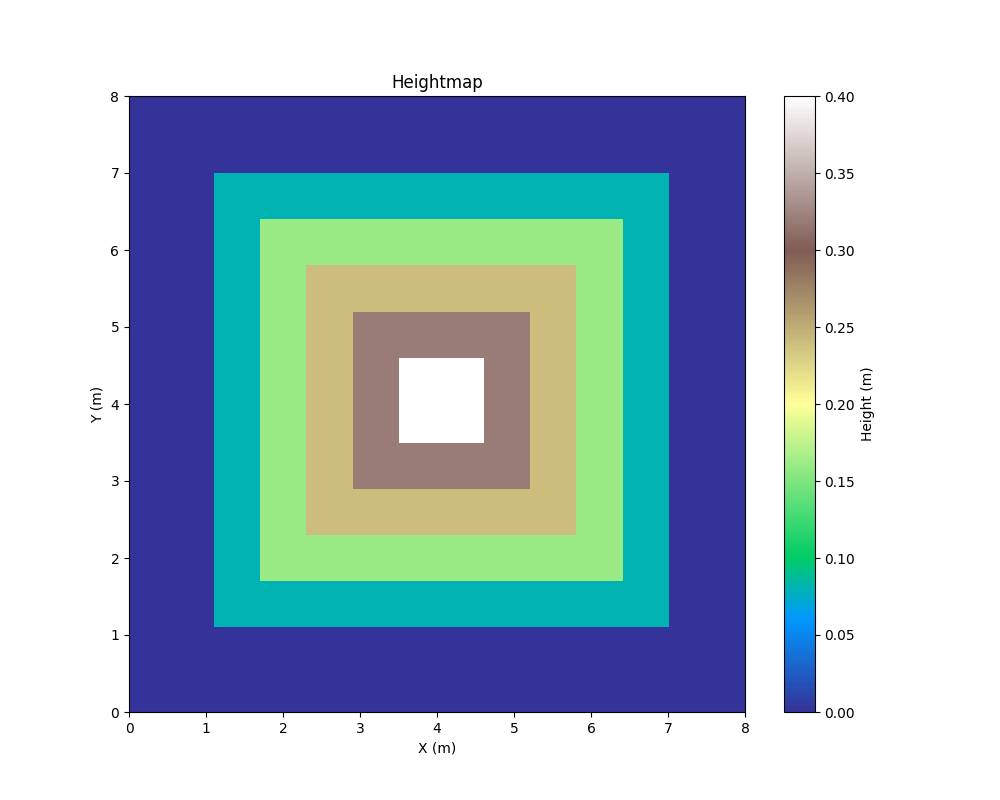
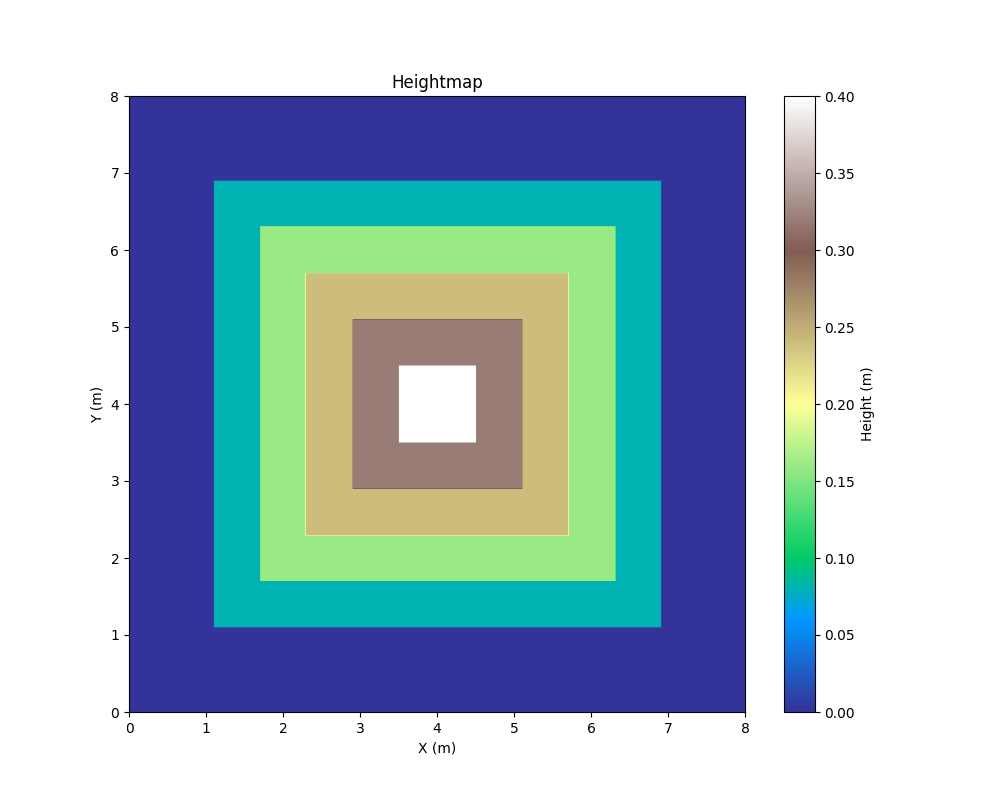
Update terrains images

Changed region(s): [[0.217, 0.2188, 0.682, 0.7812], [0.341, 0.375, 0.527, 0.625]]

diff --git a/generate_preview_images.py b/generate_preview_images.py
@@ -2,6 +2,10 @@ from terrain_heightmap import generate_heightmap, plot_heightmap
 import trimesh
 import numpy as np
 from tqdm import tqdm
+from generators.terrain_perlin import generate_perlin_terrain
+from generators.terrain_stairs import generate_pyramid_stairs_terrain
+from generators.terrain_blocks import generate_block_terrain
+from generators.terrain_slope import generate_slope_terrain
 
 print("-- Generating meshes --")
 meshs = []
@@ -9,6 +13,7 @@ meshs.append(generate_perlin_terrain())
 meshs.append(generate_pyramid_stairs_terrain(going_up=False))
 meshs.append(generate_pyramid_stairs_terrain(going_up=True))
 meshs.append(generate_block_terrain())
+meshs.append(generate_slope_terrain())
 
 print("-- Generating images and heightmaps --")
 for i, mesh in enumerate(tqdm(meshs)):
@@ -35,10 +40,10 @@ for i, mesh in enumerate(tqdm(meshs)):
     data = scene.save_image(resolution=[1920, 1080], visible=False)
 
     # Convert the image data to an actual image and save it
-    fn = "terrain{}_3d.png".format(i + 1)
+    fn = "images/terrain{}_3d.png".format(i + 1)
     with open(fn, "wb") as f:
         f.write(data)
-    hm = generate_heightmap(mesh, resolution=10)
-    fn = "terrain{}_heightmap.png".format(i + 1)
+    hm = generate_heightmap(mesh, resolution=100)
+    fn = "images/terrain{}_heightmap.png".format(i + 1)
 
     plot_heightmap(hm, filename=fn)
